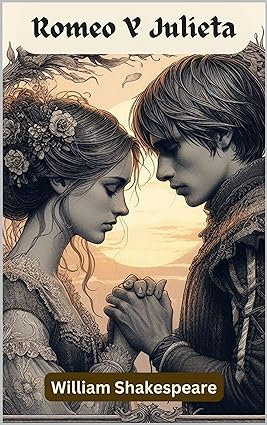
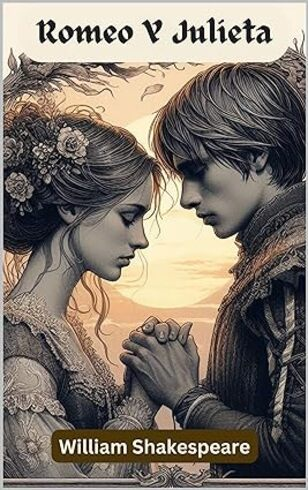
modificacion en botones solo para que vean sus respectivos creadores y algunas modificaciones de tamaño y bordes

diff --git a/templates/categorias/guerra.html b/templates/categorias/guerra.html
@@ -12,8 +12,8 @@
 </div>
 </section>
 
-<div class="card" style="display: grid; background-color: #7ccf87;">
-    <img class="card-img-top" src="{% static 'images/DF.jpg' %}" style="width: 50%; height: 50%; place-self: center; margin-top: 50px;" alt=" ">
+<div class="card" style="display: grid; background-color: #7ccf87; border: 5px solid black;">
+    <img class="card-img-top" src="{% static 'images/DF.jpg' %}" style="width: 60%; height: 60%; place-self: center; margin-top: 20px; border: 5px solid black;" alt=" ">
     <div class="card-body" style="width: auto; height: auto;">
         <h4 class="card-title">Desperta Ferro. Contemporánea nº 58: Sol Naciente "La expansión japonesa en el sudeste asiático 1941"</h4>
       <p class="card-text">¡Ataque aéreo contra Pearl Harbor! ¡Esto no es un simulacro!' Apenas unas pocas horas después que la estación radiofónica militar de Oahu emitiera este grito desesperado, el eco respondió en el lejano sudeste asiático. En realidad, el ataque a la gran base estadounidense en Hawái no era más que una maniobra secundaria, un intento de aniquilar a la Flota del Pacífico para que no se interpusiera entre el Imperio nipón y su verdadero objetivo: la expansión japonesa en el sudeste asiático para conseguir sus ingentes materias primas. Durante las trepidantes semanas que siguieron el kraken japonés extendió sus tentáculos y fue tomando, una tras otra, las colonias holandesas. Los campos petrolíferos de Borneo y de Sumatra, el níquel de Célebes y el caucho de Java, entre otros muchos recursos indispensables, fueron cayendo en manos de los invasores. La campaña, que fue un éxito rotundo de los atacantes, terminó el 8 de marzo de 1941, sesenta días antes de lo previsto, tras tan solo tres meses de combates, con la rendición de Java. Atrás quedaban el valiente ataque de los destructores estadounidenses en Balikpapan, el asalto aerotransportado japonés a los campos petrolíferos de Palembang, el brutal bombardeo de Darwin, la batalla del mar de Java y los combates en las selvas de Borneo. Lastrados por un cuartel general único, el ABDACOM, en el que intervinieron cuatro países, tres sistemas de mando y control y dos idiomas distintos, los aliados lucharon con valentía contra sus enemigos y contra las circunstancias, pero fueron derrotados por el plan meticulosamente elaborado por la Marina y el Ejército del Imperio del sol naciente. Habían sido meses de trabajos y discusiones entre los dos servicios que conformaban el Cuartel General Imperial, pero el resultado final fue una victoria rotunda. La Segunda Guerra Mundial en el Pacífico podía continuar.</p>

diff --git a/templates/publicaciones/publicaciones.html b/templates/publicaciones/publicaciones.html
@@ -47,17 +47,28 @@
 
 <!--Llamamos al diccionario de contexto dentro de la funcion publicaciones_views-->
 {% for publicacion in publicaciones %}
-<!--Tarjeta de Publicación-->
+<!-- Tarjeta de Publicación -->
 <div class="card" style="margin-bottom: 20px;">
   <div class="card-header">
     {{publicacion.fecha}} - <strong style="color: black;">@{{publicacion.creador.username}}</strong>
-    {% if user.es_colaborador or user.is_superuser %}
-    <span>
-        <!-- Botón eliminar -->
-      <a href="{% url 'eliminar-publicacion' publicacion.id %}"><i class="fa-solid fa-trash" style="margin-right: 5px; float: right;"></i></a>
-      <!-- Botón modificar -->
-      <a href="{% url 'modificar-publicacion' publicacion.id %}"><i class="fa-regular fa-pen-to-square" style="margin-right: 10px;float: right;"></i></a>
-    </span>
+    {% if user.is_authenticated %}
+      {% if user == publicacion.creador or user.is_superuser %}
+        <span>
+          <!-- Botón eliminar -->
+          <a href="{% url 'eliminar-publicacion' publicacion.id %}">
+            <i class="fa-solid fa-trash" style="margin-right: 5px; float: right;"></i>
+          </a>
+          <!-- Botón modificar -->
+          <a href="{% url 'modificar-publicacion' publicacion.id %}">
+            <i class="fa-regular fa-pen-to-square" style="margin-right: 10px; float: right;"></i>
+          </a>
+        </span>
+      {% else %}
+        <span>
+          <!-- Mostrar mensaje de falta de permisos -->
+          <p style="color: red; float: right;">No tienes permisos para modificar/eliminar esta publicación.</p>
+        </span>
+      {% endif %}
     {% endif %}
   </div>
   <div class="card-body">

diff --git a/templates/publicaciones/detalle.html b/templates/publicaciones/detalle.html
@@ -52,12 +52,26 @@
         {% for comentario in publicacion.comentarios.all %}
         <div class="comentario-header">
             <strong>{{comentario.creador}}</strong>
-            <a href="{% url 'borrar-comentario' comentario.id %}"><i class="fa-solid fa-trash"></i></a>
-            <a href="{% url 'editar-comentario' comentario.id %}"><i class="fa-solid fa-pen-to-square"></i></a>
+            
+            {% if user.is_authenticated %}
+                {% if user == comentario.creador %}
+                    <!-- Mostrar botones solo si el usuario actual es el creador del comentario -->
+                    <a href="{% url 'borrar-comentario' comentario.id %}">
+                        <i class="fa-solid fa-trash"></i>
+                    </a>
+                    <a href="{% url 'editar-comentario' comentario.id %}">
+                        <i class="fa-solid fa-pen-to-square"></i>
+                    </a>
+                {% else %}
+                    <!-- Mostrar mensaje de falta de permisos -->
+                    <span style="color: red;">No tienes permisos para modificar/eliminar este comentario.</span>
+                {% endif %}
+            {% endif %}
         </div>
-
+        
         <li class="list-group-item">{{comentario.texto}}</li>
-        {% endfor %}
+    {% endfor %}
+    
 
         {% else %}
         <p>No hay comentario aun.</p>

diff --git a/templates/categorias/ficcion.html b/templates/categorias/ficcion.html
@@ -15,8 +15,8 @@
 </section>
 
 
-<div class="card" style="display: grid; background-color: #7ccf87;">
-    <img class="card-img-top" src="{% static 'images/pyj.jpg' %}" style="width: 50%; height: 50%; place-self: center; margin-top: 50px;" alt=" ">
+<div class="card" style="display: grid; background-color: #7ccf87; border: 5px solid black; ">
+    <img class="card-img-top" src="{% static 'images/pyj.jpg' %}" style="width: 60%; height: 60%; place-self: center; margin-top: 20px; border: 5px solid black;" alt=" ">
     <div class="card-body" style="width: auto; height: auto;">
         <h4 class="card-title">EL SEÑOR DE LOS ANILLOS</h4>
         <p class="card-text">El Señor de los Anillos, es una novela de fantasía épica escrita por el filólogo y escritor británico J. R. R. Tolkien. Su historia se desarrolla en la Tercera Edad del Sol de la Tierra Media, un lugar ficticio poblado por hombres y otras razas antropomorfas, como los hobbits, los elfos o los enanos, así como por muchas otras criaturas reales y fantásticas. La novela narra el viaje del protagonista principal, Frodo Bolsón, hobbit de la Comarca, para destruir el Anillo Único y la consiguiente guerra que provocará el enemigo para recuperarlo, ya que es la principal fuente de poder de su creador, el señor oscuro Sauron.</p>

diff --git a/templates/categorias/romance.html b/templates/categorias/romance.html
@@ -14,8 +14,8 @@
 </section>
 
 
-<div class="card" style="display: grid; background-color: #7ccf87;">
-    <img class="card-img-top" src="{% static 'images/RyJ.jpg' %}" style="width: 50%; height: 50%; place-self: center; margin-top: 50px;" alt=" ">
+<div class="card" style="display: grid; background-color: #7ccf87; border: 5px solid black;">
+    <img class="card-img-top" src="{% static 'images/RyJ.jpg' %}" style="width: 65%; height: 65%; place-self: center; margin-top: 20px; border: 5px solid black;" alt=" ">
     <div class="card-body" style="width: auto; height: auto;">
         <h4 class="card-title">ROMEO Y JULIETA</h4>
       <p class="card-text">Romeo y Julieta, La excelente y lamentable tragedia de Romeo y Julieta, es una tragedia del dramaturgo inglés William Shakespeare. Cuenta la historia de dos jóvenes que, a pesar de la oposición de sus familiares, rivales entre sí, deciden casarse de forma ilegal y vivir juntos; sin embargo, la presión de esa rivalidad y una serie de fatalidades conducen a que la pareja elija el suicidio antes que vivir separados. Esta relación entre sus protagonistas se ha convertido en el arquetipo de los llamados amantes desventurados o star-crossed lovers. La muerte de ambos, sin embargo, supone la reconciliación de las dos familias.</p>

diff --git a/templates/categorias/terror.html b/templates/categorias/terror.html
@@ -14,8 +14,8 @@
 </section>
 
 
-<div class="card" style="display: grid; background-color: #7ccf87;">
-    <img class="card-img-top" src="{% static 'images/it.jpg' %}" style="width: 50%; height: 50%; place-self: center; margin-top: 50px;" alt=" ">
+<div class="card" style="display: grid; background-color: #7ccf87; border: 5px solid black;">
+    <img class="card-img-top" src="{% static 'images/it.jpg' %}" style="width: 61%; height: 61%; place-self: center; margin-top: 20px; border: 5px solid black;" alt=" ">
     <div class="card-body" style="width: auto; height: auto;">
         <h4 class="card-title">IT</h4>
       <p class="card-text">It, es una novela de terror publicada en 1986 por el escritor estadounidense Stephen King. Cuenta la historia, en un juego de correspondencias con el pasado y el presente, de un grupo de siete amigos que son perseguidos por una entidad sobrenatural, al que llaman «Eso», que es capaz de cambiar de forma y se alimenta principalmente del terror que produce en sus víctimas. La narración orbita en torno a la localidad ficticia de Derry y la inexplicable aura de horror y muerte que la rodea.</p>

diff --git a/templates/categorias/ciencia.html b/templates/categorias/ciencia.html
@@ -14,8 +14,9 @@
 </section>
 
 
-<div class="card" style="display: grid; background-color: #7ccf87;">
-    <img class="card-img-top" src="{% static 'images/CSP.jpg' %}" style="width: 50%; height: 50%px; place-self: center; margin-top: 50px;" alt=" ">
+<div class="card" style="display: grid; background-color: #7ccf87; border: 5px solid black;">
+    <img class="card-img-top" src="{% static 'images/CSP.jpg' %}" style="width: 60%; height: 60%; place-self: center; margin-top: 20px; border: 5px solid black;" alt=" ">
+
     <div class="card-body" style="width: auto; height: auto;">
         <h4 class="card-title">COSMOS: UN VIAJE PERSONAL</h4>
       <p class="card-text">Cosmos: un viaje personal , es una serie documental de divulgación científica escrita por Carl Sagan, Ann Druyan y Steven Soter (con Sagan como guionista principal y presentador), cuyos objetivos fundamentales fueron:

diff --git a/templates/categorias/historia.html b/templates/categorias/historia.html
@@ -16,8 +16,8 @@
 
 
         
-<div class="card" style="display: grid; background-color: #7ccf87;">
-    <img class="card-img-top" src="{% static 'images/historia.jpg' %}" style="width: 50%; height: 50%; place-self: center; margin-top: 50px;" alt=" ">
+<div class="card" style="display: grid; background-color: #7ccf87; border: 5px solid black;">
+    <img class="card-img-top" src="{% static 'images/historia.jpg' %}" style="width: 60%; height: 60%; place-self: center; margin-top: 20px; border: 5px solid black;" alt=" ">
     <div class="card-body" style="width: auto; height: auto;">
         <h4 class="card-title">
             Guardar en favoritosMarcar como leídoCompartir libro
